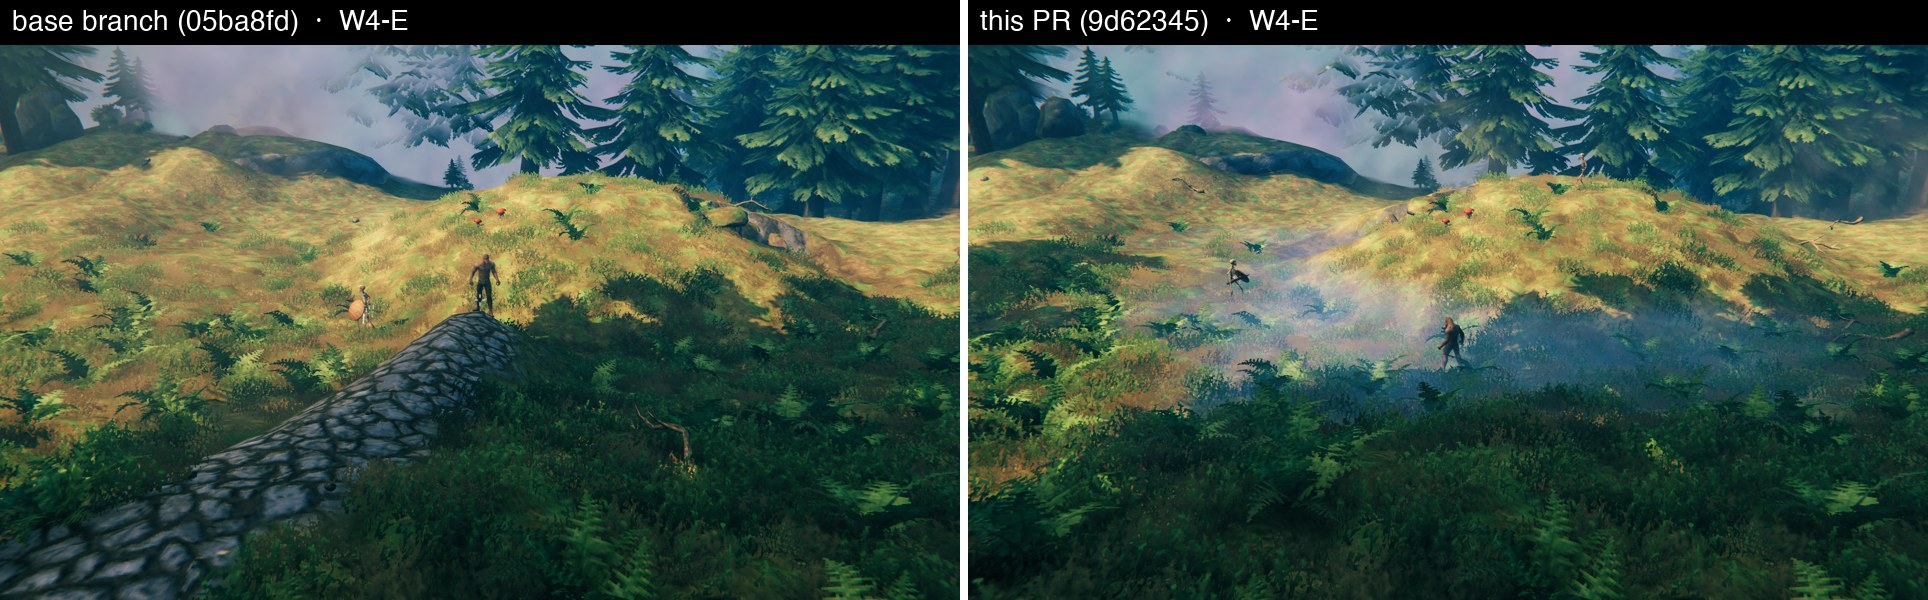
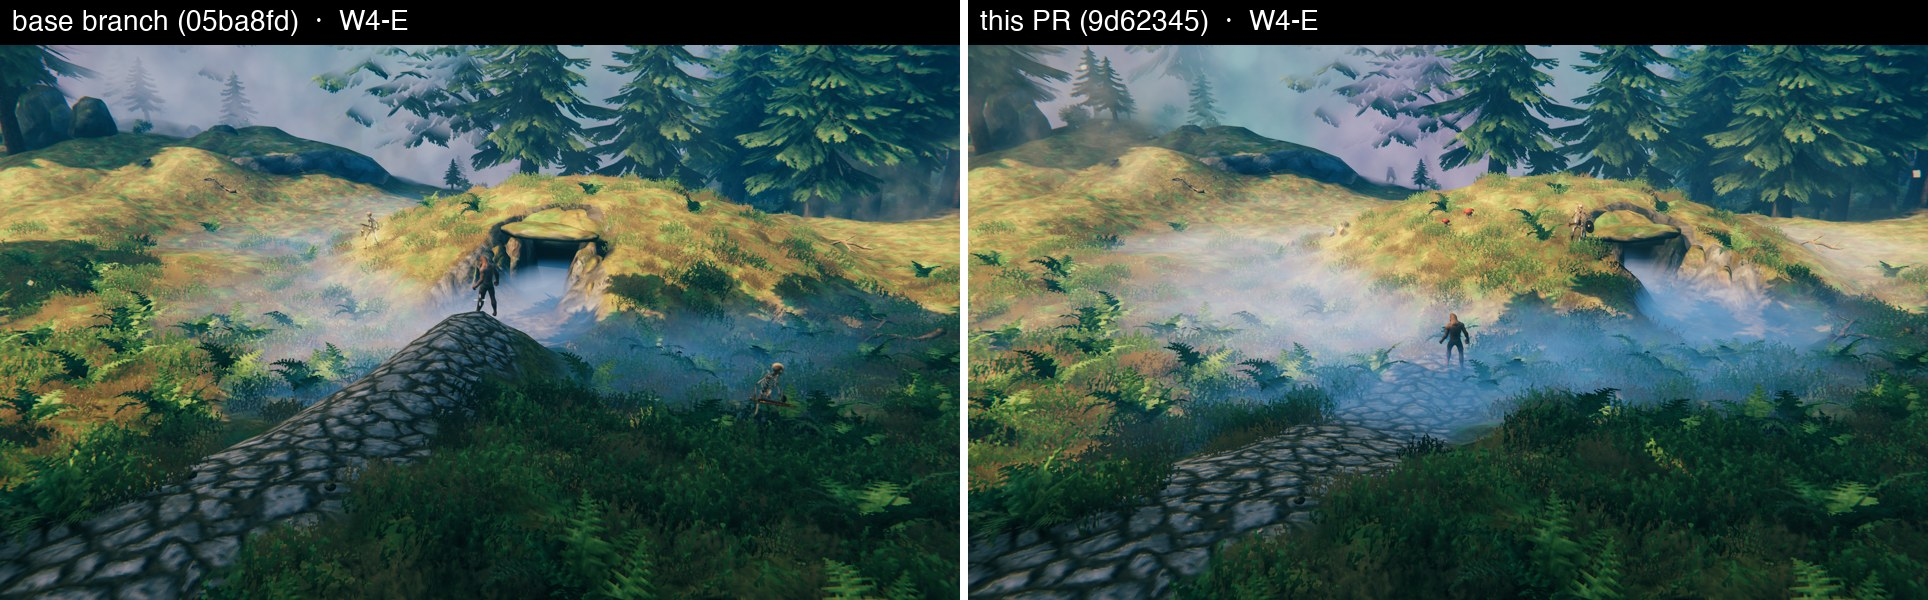
endpoint-ramp exhibits: median-end sheets from the re-applied round

diff --git a/validation-results/screenshots/pr-endpoint-ramp-2026-09-07/README.md b/validation-results/screenshots/pr-endpoint-ramp-2026-09-07/README.md
@@ -25,7 +25,8 @@ build. Poses fixed per site (private station repo).
   Of the 142 road ends, 61 sit 1 m or more from the ground at the end;
   the median of those is 2.2 m. W4 = Crypt4 (8135,2678), Black Forest,
   road 2.12 m above the ground on the base branch, 0.00 m on the PR.
-  Generation scope GLOBAL at load, painting at zone spawn, world fixture
-  restored per build, poses generic (top-down + four compass views 18 m
-  out). Builds: tooling 05ba8fd vs ramp 9d62345 (road_ends now lives on
+  Generation scope GLOBAL at load, painting RE-APPLIED per site by
+  road_generate (the zone-spawn hook left these zones bare on two runs,
+  see the handoff), world fixture restored per build, poses generic
+  (top-down + four compass views 18 m out). Builds: tooling 05ba8fd vs ramp 9d62345 (road_ends now lives on
   the ramp branch as its own debug commit).
